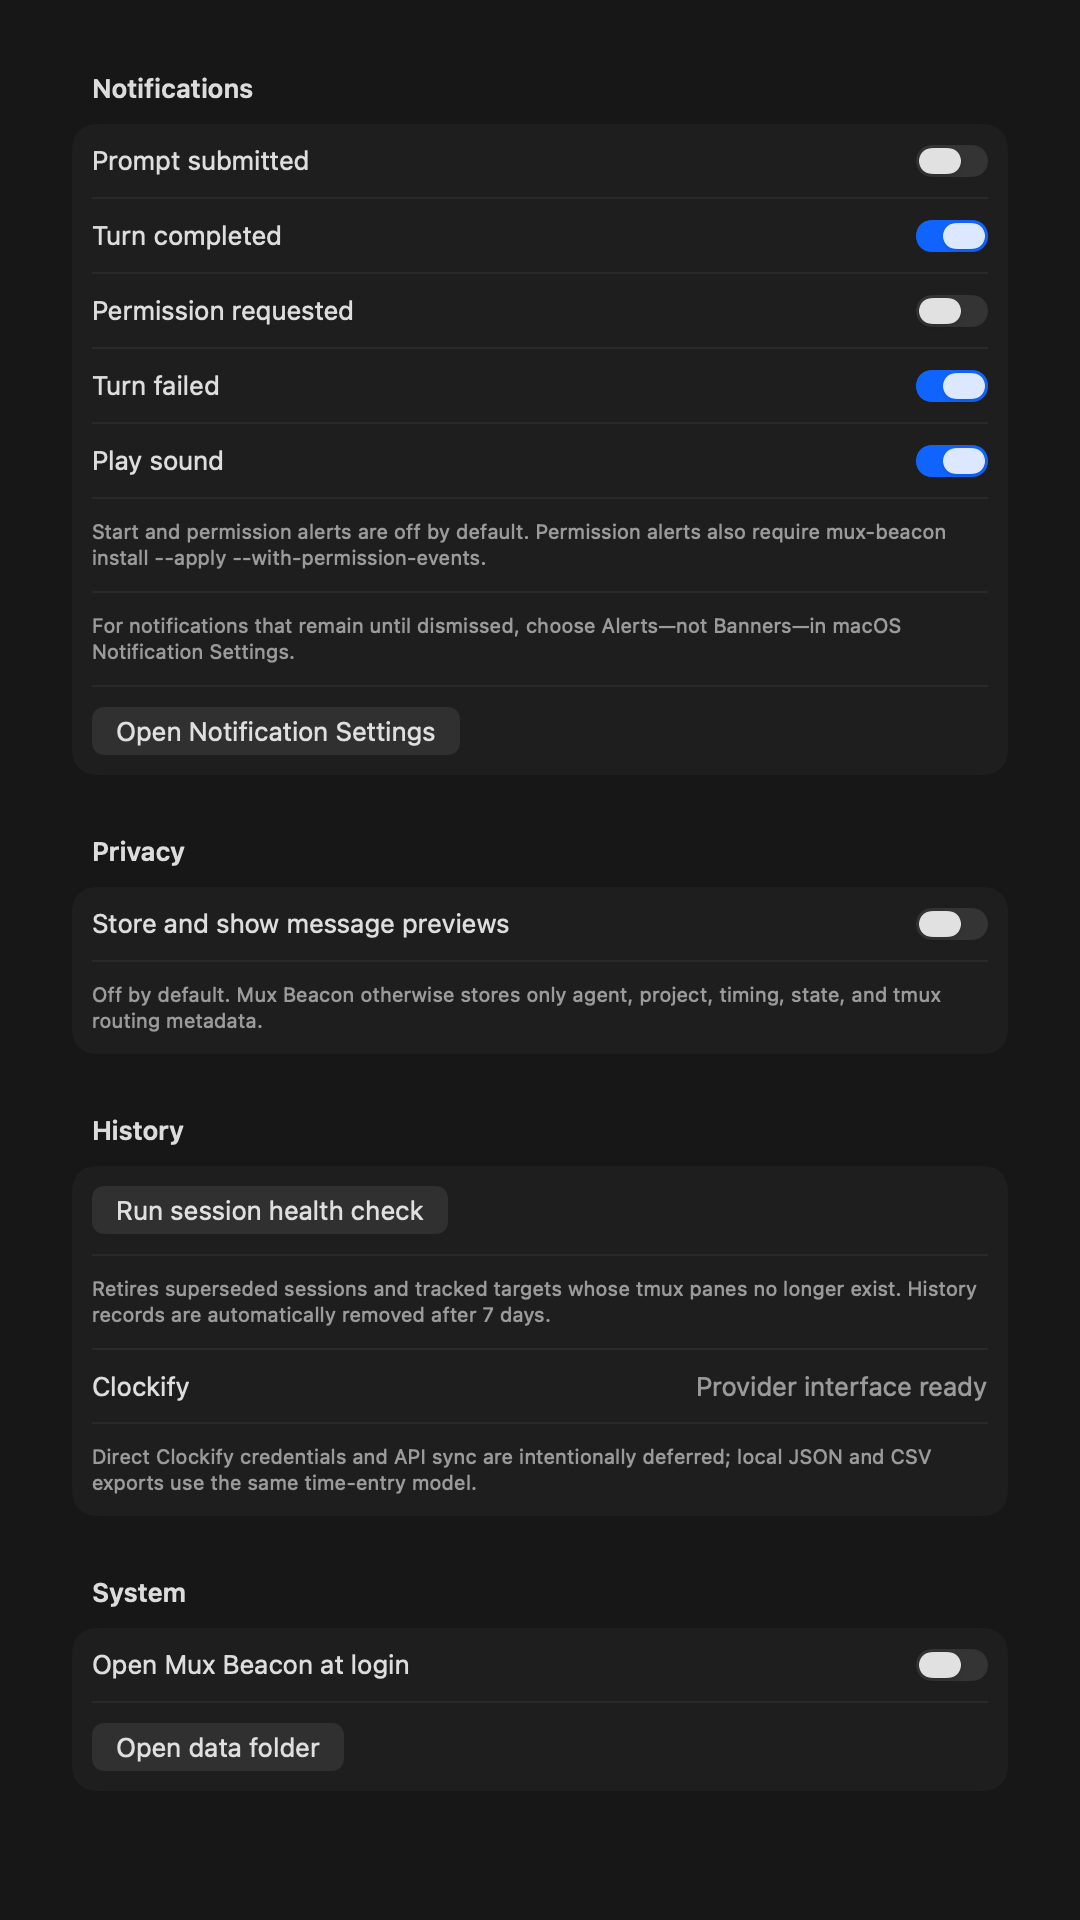
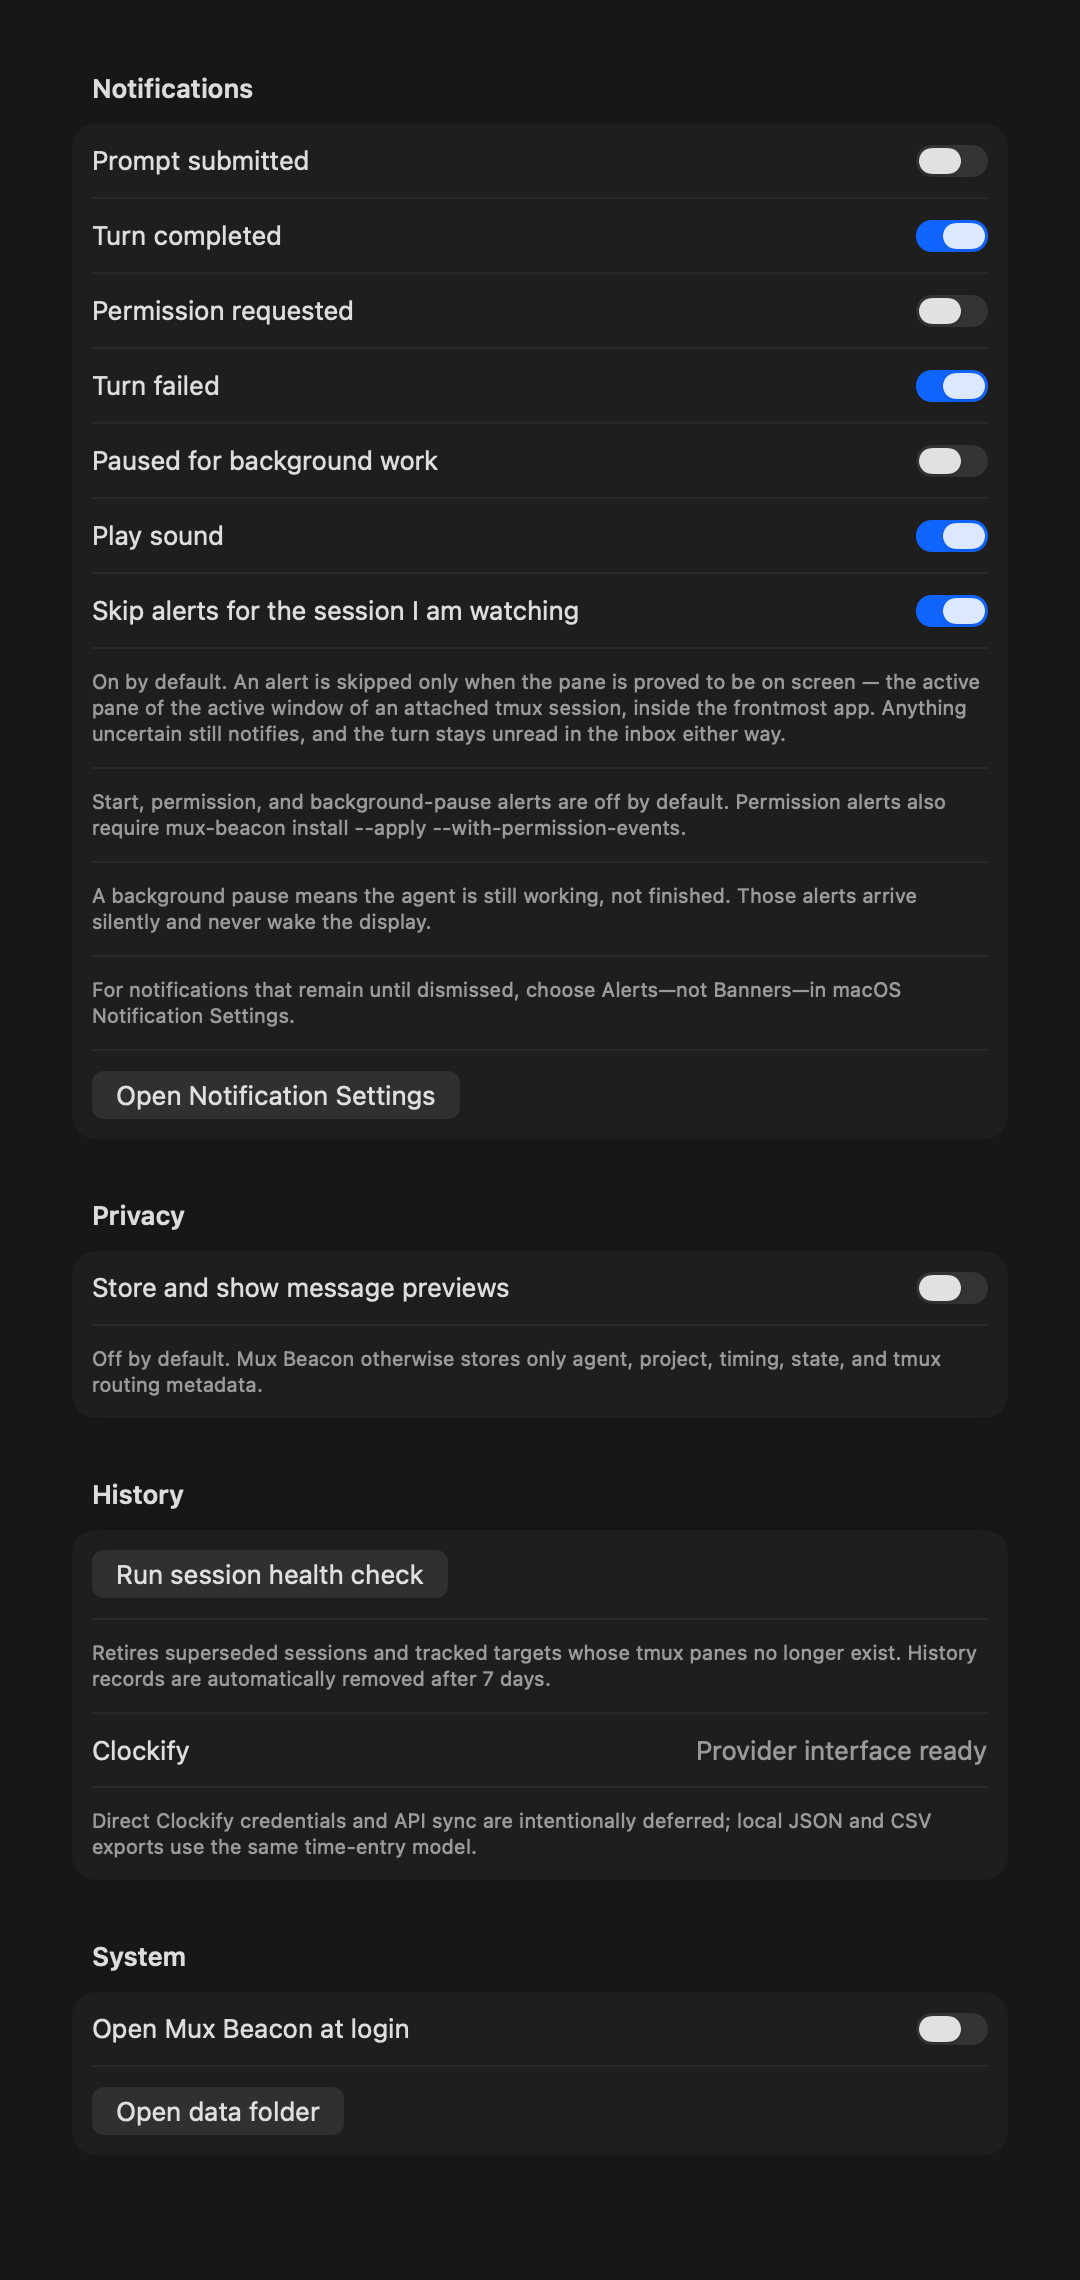
Regenerate the inbox and settings screenshots
Both had drifted: the inbox predates the clock times now shown on every
row, and the settings form predates the background-pause and
watched-session toggles.

Captured against an isolated MUX_BEACON_HOME holding only the
anonymized demo fixtures, so no real project or session names can reach
a published image. The settings capture canvas grows to 1140pt because
the added toggles and their explanations pushed the System section off
the bottom of the old one; the interactive settings window is sized
separately and is unaffected.

diff --git a/Sources/MuxBeaconApp/AppDelegate.swift b/Sources/MuxBeaconApp/AppDelegate.swift
@@ -99,7 +99,9 @@ final class AppDelegate: NSObject, NSApplicationDelegate, NSWindowDelegate, UNUs
         }
         let model = BeaconAppModel.shared
         let settingsMode = ProcessInfo.processInfo.environment["MUX_BEACON_SCREENSHOT_VIEW"] == "settings"
-        let size = settingsMode ? NSSize(width: 540, height: 960) : NSSize(width: 450, height: 620)
+        // Tall enough for the whole settings form; the interactive window sizes
+        // itself independently in openSettingsWindow().
+        let size = settingsMode ? NSSize(width: 540, height: 1140) : NSSize(width: 450, height: 620)
         let rootView = settingsMode
             ? AnyView(BeaconSettingsView().frame(width: size.width, height: size.height))
             : AnyView(BeaconPanel(
